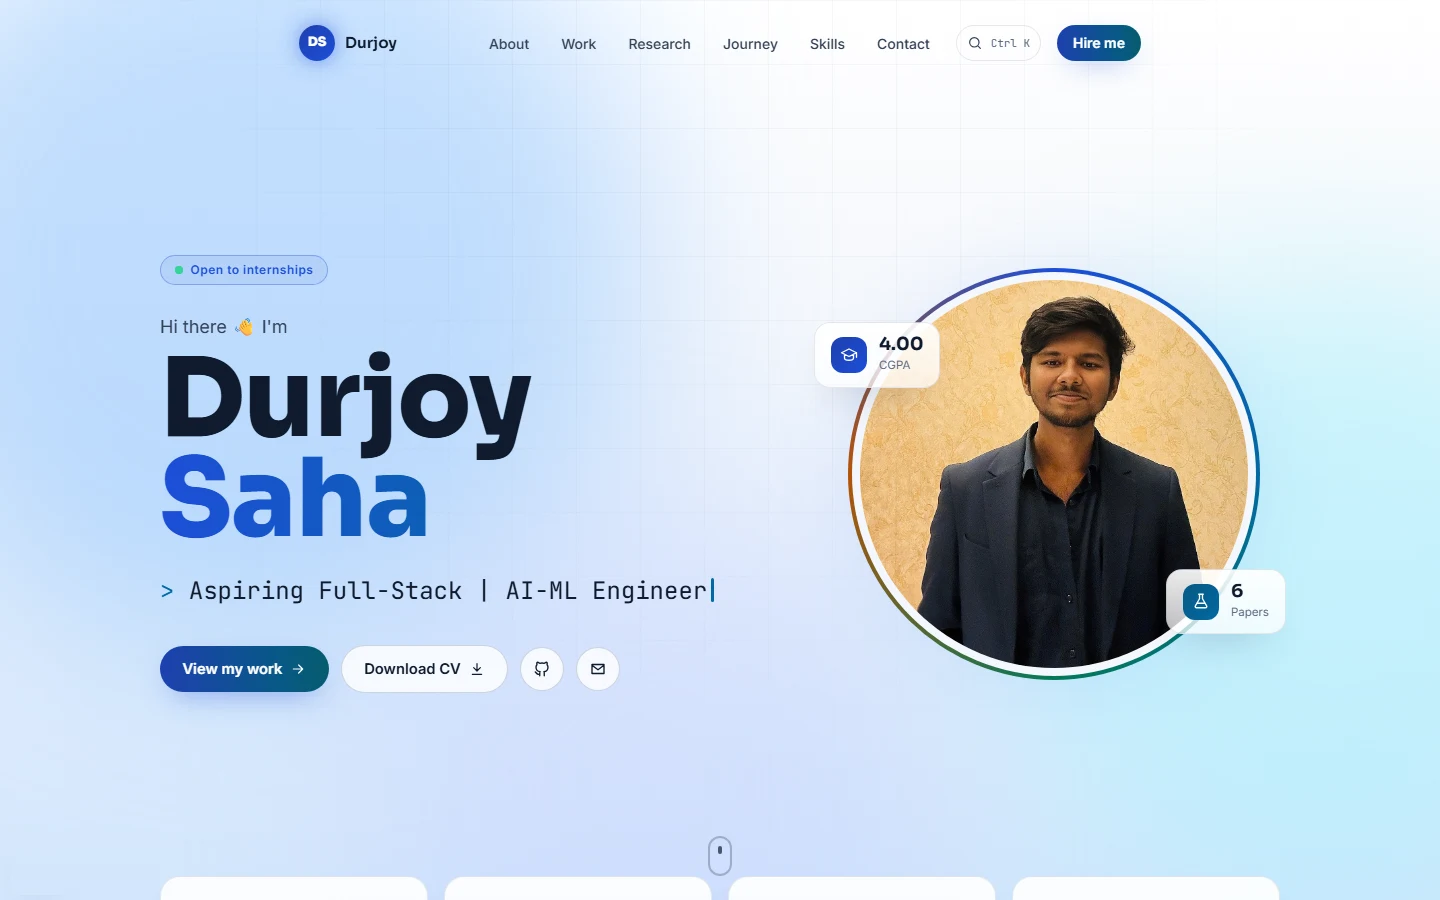
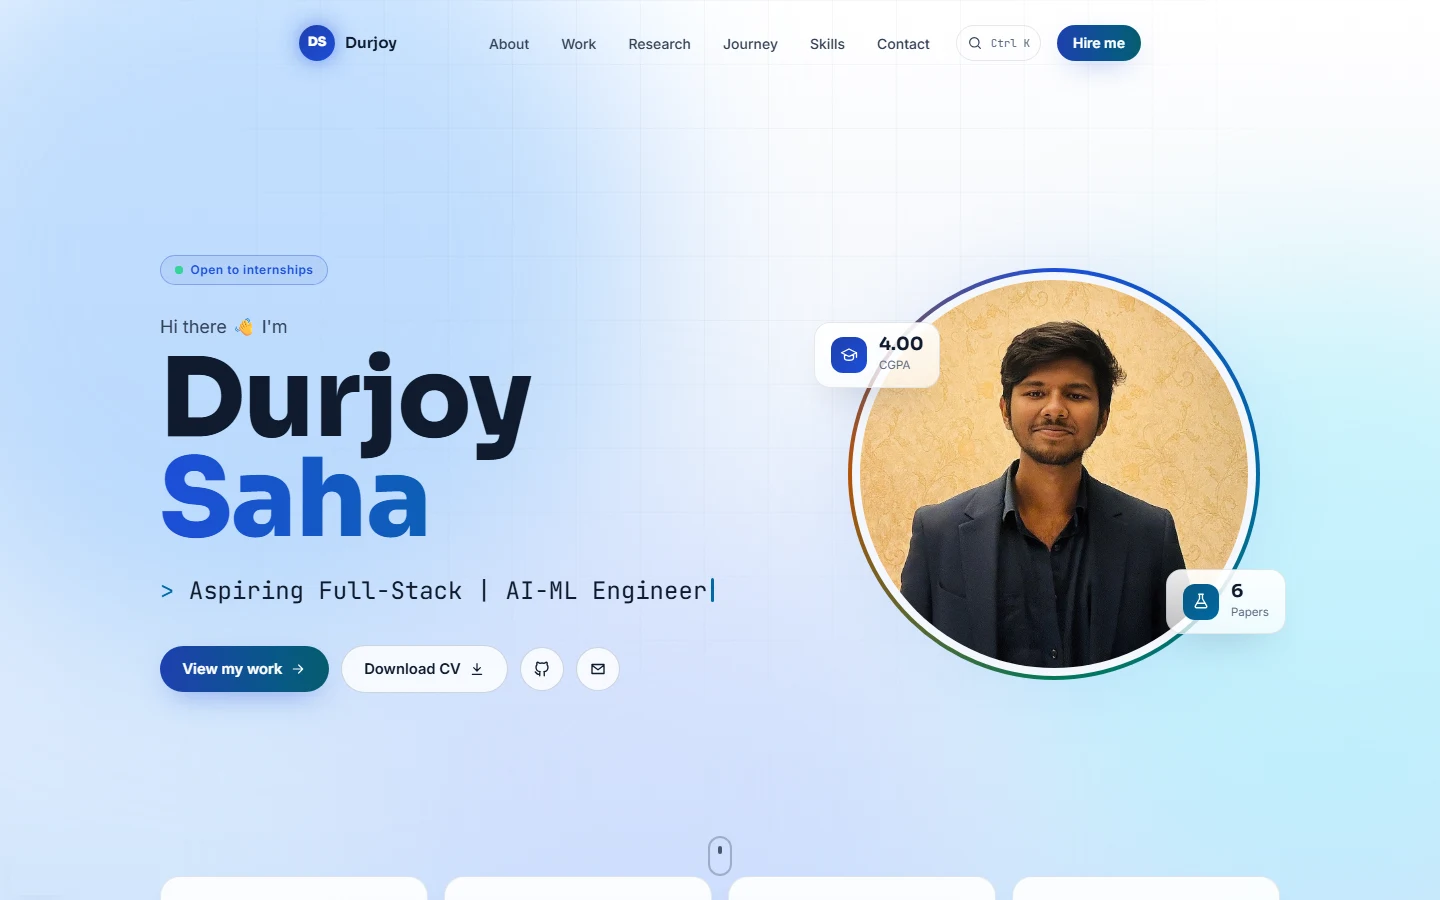
Restore cropped portrait and add a photo zoom setting
The full-size upload sat too far away in the hero circle, and the
admin could only move the focus point. Profile now has photoZoom
(1 = as uploaded), editable in /admin -> Photo & CV, which scales
the portrait toward the focus point.

Changed region(s): [[0.5938, 0.3111, 0.8438, 0.7467]]

diff --git a/src/components/Hero.tsx b/src/components/Hero.tsx
@@ -94,7 +94,11 @@ export default function Hero() {
                   priority
                   sizes="(min-width: 1024px) 400px, 78vw"
                   className="object-cover"
-                  style={{ objectPosition: PROFILE.photoPosition || "50% 30%" }}
+                  style={{
+                    objectPosition: PROFILE.photoPosition || "50% 30%",
+                    transform: `scale(${Math.max(1, PROFILE.photoZoom || 1)})`,
+                    transformOrigin: PROFILE.photoPosition || "50% 30%",
+                  }}
                 />
               </div>
             </div>

diff --git a/src/components/admin/schema.ts b/src/components/admin/schema.ts
@@ -119,6 +119,13 @@ export const PAGES: Page[] = [
             placeholder: "58% 26%",
             hint: "Horizontal% vertical% — which part of the photo stays in frame.",
           },
+          {
+            key: "photoZoom",
+            label: "Photo zoom",
+            type: "number",
+            step: 0.05,
+            hint: "1 = the photo as uploaded. Higher brings it closer (1.3 = 30% closer), zooming toward the focus point.",
+          },
           { key: "cv", label: "CV (PDF)", type: "file", accept: "application/pdf", kind: "pdf", wide: true },
         ],
       },

diff --git a/src/lib/content.ts b/src/lib/content.ts
@@ -184,6 +184,8 @@ export type SiteContent = {
     photoAlt: string;
     /** CSS object-position for the portrait crop, e.g. "58% 26%". */
     photoPosition: string;
+    /** Zoom into the portrait: 1 = as uploaded, 1.5 = 50% closer. Zooms toward photoPosition. */
+    photoZoom?: number;
     cv: string;
     role: string;
     status: string;
